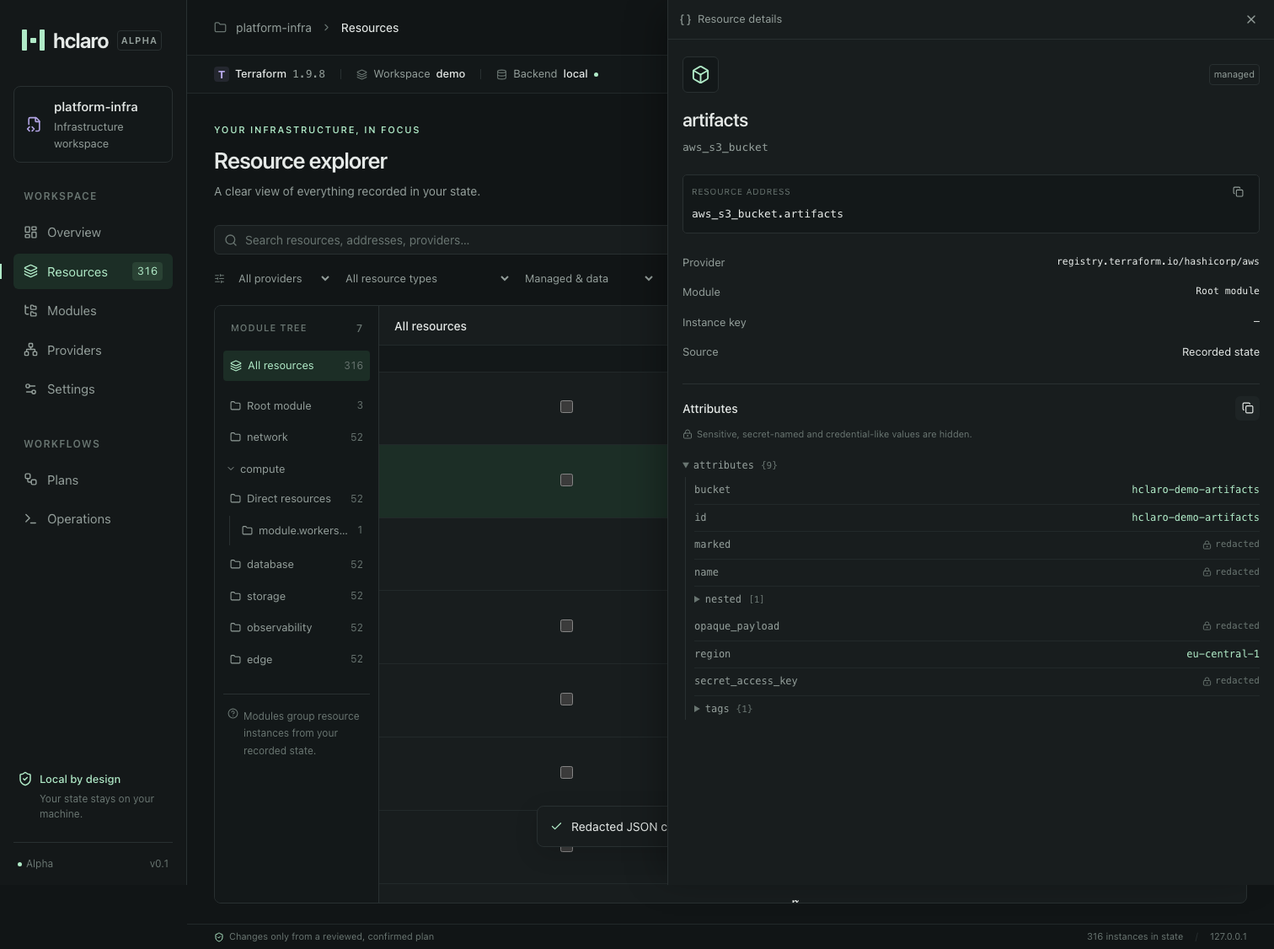
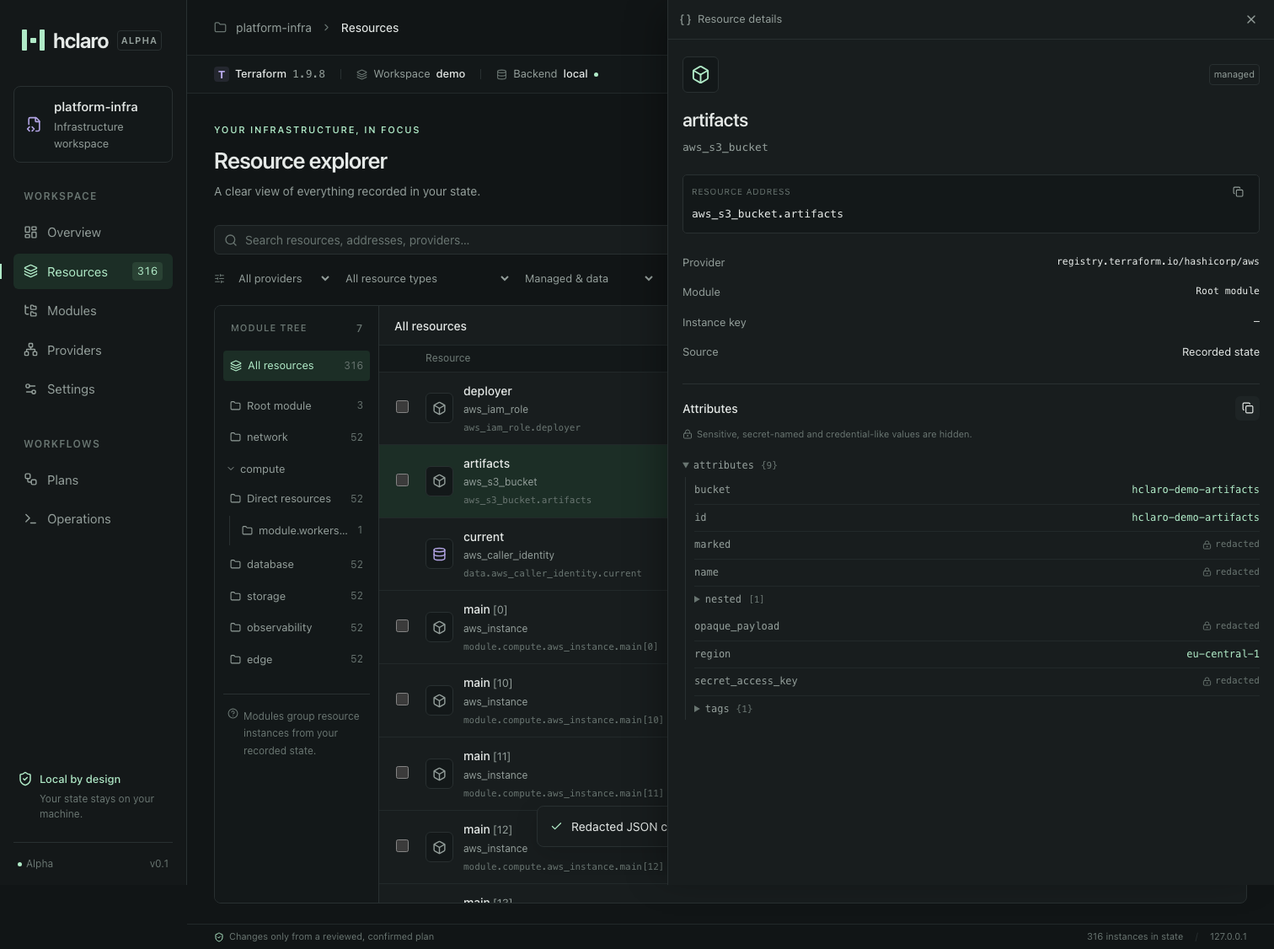
Keep the replacement checkbox column narrow in the resource table
The explorer table sized columns by position. The new leading checkbox column
took the auto width and squeezed resource names into the 83px Provider slot.
Columns are now sized relative to the checkbox column, and the browser test
checks the widths.

diff --git a/internal/ui/dist/assets/index-BXq9SpUr.css b/internal/ui/dist/assets/index-BXq9SpUr.css
@@ -1,0 +1,2 @@
+/*! tailwindcss v4.3.4 | MIT License | https://tailwindcss.com */
+@layer properties{@supports (((-webkit-hyphens:none)) and (not (margin-trim:block))) or ((-moz-orient:inline) and (not (color:rgb(from red r g b)))){*,:before,:after,::backdrop{--tw-outline-style:solid;--tw-blur:initial;--tw-brightness:initial;--tw-contrast:initial;--tw-grayscale:initial;--tw-hue-rotate:initial;--tw-invert:initial;--tw-opacity:initial;--tw-saturate:initial;--tw-sepia:initial;--tw-drop-shadow:initial;--tw-drop-shadow-color:initial;--tw-drop-shadow-alpha:100%;--tw-drop-shadow-size:initial}}}@layer theme{:root,:host{--font-sans:-apple-system, BlinkMacSystemFont, "Segoe UI", Roboto, "Helvetica Neue", "Noto Sans", Arial, sans-serif, "Apple Color Emoji", "Segoe UI Emoji", "Segoe UI Symbol", "Noto Color Emoji";--font-mono:ui-monospace, SFMono-Regular, Menlo, Monaco, Consolas, "Liberation Mono", "Courier New", monospace;--default-font-family:var(--font-sans);--default-mono-font-family:var(--font-mono)}}@layer base{*,:after,:before,::backdrop{box-sizing:border-box;border:0 solid;margin:0;padding:0}::file-selector-button{box-sizing:border-box;border:0 solid;margin:0;padding:0}html,:host{-webkit-text-size-adjust:100%;tab-size:4;line-height:1.5;font-family:var(--default-font-family,-apple-system, BlinkMacSystemFont, "Segoe UI", Roboto, "Helvetica Neue", "Noto Sans", Arial, sans-serif, "Apple Color Emoji", "Segoe UI Emoji", "Segoe UI Symbol", "Noto Color Emoji");font-feature-settings:var(--default-font-feature-settings,normal);font-variation-settings:var(--default-font-variation-settings,normal);-webkit-tap-highlight-color:transparent}hr{height:0;color:inherit;border-top-width:1px}abbr:where([title]){-webkit-text-decoration:underline dotted;text-decoration:underline dotted}h1,h2,h3,h4,h5,h6{font-size:inherit;font-weight:inherit}a{color:inherit;-webkit-text-decoration:inherit;-webkit-text-decoration:inherit;-webkit-text-decoration:inherit;-webkit-text-decoration:inherit;text-decoration:inherit}b,strong{font-weight:bolder}code,kbd,samp,pre{font-family:var(--default-mono-font-family,ui-monospace, SFMono-Regular, Menlo, Monaco, Consolas, "Liberation Mono", "Courier New", monospace);font-feature-settings:var(--default-mono-font-feature-settings,normal);font-variation-settings:var(--default-mono-font-variation-settings,normal);font-size:1em}small{font-size:80%}sub,sup{vertical-align:baseline;font-size:75%;line-height:0;position:relative}sub{bottom:-.25em}sup{top:-.5em}table{text-indent:0;border-color:inherit;border-collapse:collapse}:-moz-focusring:where(:not(iframe)){outline:auto}progress{vertical-align:baseline}summary{display:list-item}ol,ul,menu{list-style:none}img,svg,video,canvas,audio,iframe,embed,object{vertical-align:middle;display:block}img,video{max-width:100%;height:auto}button,input,select,optgroup,textarea{font:inherit;font-feature-settings:inherit;font-variation-settings:inherit;letter-spacing:inherit;color:inherit;opacity:1;background-color:#0000;border-radius:0}::file-selector-button{font:inherit;font-feature-settings:inherit;font-variation-settings:inherit;letter-spacing:inherit;color:inherit;opacity:1;background-color:#0000;border-radius:0}:where(select:is([multiple],[size])) optgroup{font-weight:bolder}:where(select:is([multiple],[size])) optgroup option{padding-inline-start:20px}::file-selector-button{margin-inline-end:4px}::placeholder{opacity:1}@supports (not ((-webkit-appearance:-apple-pay-button))) or (contain-intrinsic-size:1px){::placeholder{color:currentColor}@supports (color:color-mix(in lab, red, red)){::placeholder{color:color-mix(in oklab, currentcolor 50%, transparent)}}}textarea{resize:vertical}::-webkit-search-decoration{-webkit-appearance:none}::-webkit-date-and-time-value{min-height:1lh;text-align:inherit}::-webkit-datetime-edit{display:inline-flex}::-webkit-datetime-edit-fields-wrapper{padding:0}::-webkit-datetime-edit{padding-block:0}::-webkit-datetime-edit-year-field{padding-block:0}::-webkit-datetime-edit-month-field{padding-block:0}::-webkit-datetime-edit-day-field{padding-block:0}::-webkit-datetime-edit-hour-field{padding-block:0}::-webkit-datetime-edit-minute-field{padding-block:0}::-webkit-datetime-edit-second-field{padding-block:0}::-webkit-datetime-edit-millisecond-field{padding-block:0}::-webkit-datetime-edit-meridiem-field{padding-block:0}::-webkit-calendar-picker-indicator{line-height:1}:-moz-ui-invalid{box-shadow:none}button,input:where([type=button],[type=reset],[type=submit]){appearance:button}::file-selector-button{appearance:button}::-webkit-inner-spin-button{height:auto}::-webkit-outer-spin-button{height:auto}[hidden]:where(:not([hidden=until-found])){display:none!important}}@layer components;@layer utilities{.visible{visibility:visible}.sr-only{clip-path:inset(50%);white-space:nowrap;border-width:0;width:1px;height:1px;margin:-1px;padding:0;position:absolute;overflow:hidden}.block{display:block}.hidden{display:none}.table{display:table}.resize{resize:both}.outline{outline-style:var(--tw-outline-style);outline-width:1px}.filter{filter:var(--tw-blur, ) var(--tw-brightness, ) var(--tw-contrast, ) var(--tw-grayscale, ) var(--tw-hue-rotate, ) var(--tw-invert, ) var(--tw-saturate, ) var(--tw-sepia, ) var(--tw-drop-shadow, )}}:root{--lightningcss-light: ;--lightningcss-dark:initial;color-scheme:dark;--bg:#111516;--sidebar:#141819;--surface:#181d1e;--surface-hover:#1e2425;--surface-selected:#1c2e26;--inset:#131819;--border:#293031;--border-soft:#22292a;--text:#e5e9e7;--muted:#939e9a;--subtle:#697571;--accent:#b0eac7;--accent-dim:#2a4234;--accent-text:#b0eac7;--purple:#b3a5e5;--shadow:0 8px 28px #0002;background:var(--bg);color:var(--text);font-synthesis:none;text-rendering:optimizelegibility;-webkit-font-smoothing:antialiased;font-family:Inter,-apple-system,BlinkMacSystemFont,Segoe UI,sans-serif;font-size:15px}:root[data-theme=light]{--lightningcss-light:initial;--lightningcss-dark: ;color-scheme:light;--bg:#f8faf8;--sidebar:#f0f3f1;--surface:#fff;--surface-hover:#f2f6f3;--surface-selected:#e7f3eb;--inset:#f5f8f6;--border:#dce3de;--border-soft:#e8ede9;--text:#202c26;--muted:#617269;--subtle:#7c8b82;--accent:#87cfa4;--accent-dim:#d9efdf;--accent-text:#28683e;--purple:#7964b2;--shadow:0 8px 28px #233d2810}*{box-sizing:border-box}body{min-width:700px;margin:0}button,input,select{font:inherit}button,select{cursor:pointer}button{color:inherit}button:disabled{cursor:not-allowed;opacity:.4}a{color:inherit;text-decoration:none}button,input,select,summary{outline:none}button:focus-visible,a:focus-visible,input:focus-visible,select:focus-visible,summary:focus-visible{outline:2px solid var(--accent-text);outline-offset:3px}button{transition:background .13s,border-color .13s}svg{flex-shrink:0}h1,h2,h3,p{margin:0}button{background:0 0;border:0}select{color:var(--muted);border:1px solid var(--border);background:var(--surface);border-radius:6px;max-width:210px;padding:7px 27px 7px 10px}code,.mono{font-family:SFMono-Regular,Consolas,Liberation Mono,monospace;font-size:.88em}.muted{color:var(--muted)}.app{min-height:100vh;display:flex}.sidebar{border-right:1px solid var(--border);background:var(--sidebar);flex-direction:column;flex-shrink:0;width:222px;padding:29px 16px 0;display:flex;position:fixed;inset:0 auto 0 0}.brand{letter-spacing:-1px;align-items:center;gap:10px;padding:0 10px;font-size:25px;font-weight:650;display:flex}.brand>span:last-child{align-items:center;gap:10px;display:flex}.brand-mark{align-items:center;gap:4px;width:27px;height:28px;display:flex;position:relative}.brand-mark span{background:var(--accent);border-radius:1px;width:6px;height:25px}.brand-mark span:nth-child(2){width:7px;height:6px}.alpha{letter-spacing:.9px;color:var(--muted);border:1px solid var(--border);border-radius:4px;padding:3px 4px;font-size:11px}.project-tile{border:1px solid var(--border);background:var(--inset);border-radius:8px;align-items:center;gap:10px;min-width:0;margin:35px 0 31px;padding:12px 9px;display:flex}.project-tile>div{min-width:0}.project-tile strong{text-overflow:ellipsis;white-space:nowrap;max-width:137px;font-size:15px;font-weight:550;display:block;overflow:hidden}.project-tile div>span{color:var(--muted);margin-top:4px;font-size:13px;display:block}.project-icon{width:28px;height:31px;color:var(--purple);flex-shrink:0;place-items:center;display:grid}.nav-label{letter-spacing:1.2px;color:var(--subtle);margin:0 12px 12px;font-size:12px;font-weight:600}.nav-item{width:100%;color:var(--muted);text-align:left;border-radius:6px;align-items:center;gap:11px;margin-bottom:4px;padding:10px 12px;font-size:15px;display:flex;position:relative}.nav-item:hover:not(:disabled){background:var(--surface-hover);color:var(--text)}.nav-item.active{background:var(--surface-selected);color:var(--accent-text)}.nav-item.active:before{content:"";background:var(--accent);width:2px;height:18px;position:absolute;left:-16px}.nav-count{background:var(--accent-dim);font-variant-numeric:tabular-nums;border-radius:4px;margin-left:auto;padding:1px 6px;font-size:13px}.future-label{margin-top:31px}.soon{letter-spacing:.6px;border:1px solid var(--border);border-radius:4px;margin-left:auto;padding:3px 5px;font-size:10px}.nav-item.unavailable{opacity:.55}.sidebar-bottom{margin-top:auto;padding-top:50px}.local-note{color:var(--accent-text);align-items:flex-start;gap:8px;padding:12px 5px 24px;display:flex}.local-note strong{font-size:13px;font-weight:500;display:block}.local-note span{color:var(--subtle);margin-top:5px;font-size:12px;display:block}.sidebar-foot{color:var(--subtle);border-top:1px solid var(--border);justify-content:space-between;padding:16px 5px;font-size:12px;display:flex}.sidebar-foot>span:first-child{align-items:center;gap:5px;display:flex}.dot{background:var(--accent);border-radius:50%;flex-shrink:0;width:5px;height:5px;display:inline-block}.dot-muted{background:var(--subtle)}.workspace-shell{flex-direction:column;width:calc(100% - 222px);min-width:0;margin-left:222px;display:flex}.topbar{border-bottom:1px solid var(--border-soft);justify-content:space-between;align-items:center;height:66px;padding:0 32px;display:flex}.breadcrumbs{color:var(--muted);align-items:center;gap:11px;font-size:14px;display:flex}.breadcrumbs>svg{color:var(--subtle)}.breadcrumbs strong{color:var(--text);font-weight:450}.topbar-actions{align-items:center;gap:17px;display:flex}.session-label{color:var(--subtle);align-items:center;gap:5px;font-size:13px;display:flex}.button{white-space:nowrap;border:1px solid #0000;border-radius:6px;flex-shrink:0;justify-content:center;align-items:center;gap:7px;padding:8px 12px;font-size:14px;font-weight:500;line-height:1.3;display:inline-flex}.button-default{background:var(--accent);color:#183323}.button-ghost{color:var(--muted);background:0 0}.button-ghost:hover:not(:disabled){background:var(--surface-hover);color:var(--text)}.button-outline{background:var(--surface);border-color:var(--border);color:var(--muted)}.button-outline:hover:not(:disabled){background:var(--surface-hover);color:var(--text);border-color:var(--subtle)}.button-icon{width:29px;height:29px;padding:0}.button-small{padding:5px 8px;font-size:13px}.context-bar{border-bottom:1px solid var(--border-soft);height:45px;color:var(--muted);background:var(--inset);align-items:center;gap:18px;padding:0 32px;font-size:13px;display:flex}.context-item{white-space:nowrap;align-items:center;gap:7px;display:flex}.context-item strong{color:var(--text);font-weight:500}.context-item>svg{color:var(--subtle)}.context-item .mono{font-size:13px}.engine-glyph{color:var(--purple);background:var(--purple)}@supports (color:color-mix(in lab, red, red)){.engine-glyph{background:color-mix(in srgb,var(--purple),transparent 89%)}}.engine-glyph{text-align:center;border-radius:4px;width:18px;height:18px;font-size:13px;font-weight:750;line-height:18px}.context-divider{background:var(--border);width:1px;height:12px}.context-spacer{flex:1}.snapshot-time{color:var(--subtle);white-space:nowrap;font-size:12px}.main-content{flex:1;min-width:0;padding:35px 32px 24px}.page-heading{justify-content:space-between;align-items:flex-start;margin-bottom:30px;display:flex}.eyebrow{letter-spacing:1.7px;color:var(--accent-text);margin-bottom:11px;font-size:11px;font-weight:550}h1{letter-spacing:-.9px;font-size:27px;font-weight:580;line-height:1.2}.page-heading p{color:var(--muted);margin-top:10px;font-size:14px}.read-only-badge{border:1px solid var(--border);color:var(--muted);border-radius:5px;align-items:center;gap:6px;margin-top:24px;padding:5px 8px;font-size:12px;display:flex}.read-only-badge svg{color:var(--accent-text)}.explorer-toolbar{align-items:center;gap:8px;display:flex}.search-field{border:1px solid var(--border);background:var(--surface);min-width:0;height:35px;color:var(--subtle);border-radius:6px;flex:1;align-items:center;gap:9px;padding:0 11px;display:flex}.search-field:focus-within{border-color:var(--accent-text);box-shadow:0 0 0 2px var(--accent)}@supports (color:color-mix(in lab, red, red)){.search-field:focus-within{box-shadow:0 0 0 2px color-mix(in srgb,var(--accent),transparent 93%)}}.search-field input{color:var(--text);background:0 0;border:0;outline:0;width:100%;min-width:0;height:100%;font-size:14px}.search-field input:focus-visible{outline:0}.search-field input::placeholder{color:var(--subtle)}kbd{border:1px solid var(--border);color:var(--subtle);border-radius:3px;align-items:center;gap:2px;padding:2px 4px;font-family:inherit;font-size:12px;display:flex}.clear-search{color:var(--muted);padding:0;display:flex}.filter-row{color:var(--subtle);align-items:center;gap:8px;margin:13px 0 18px;display:flex}.filter-row select{background:0 0;border:0;max-width:205px;padding:5px 19px 5px 4px;font-size:13px}.filter-row select:hover{color:var(--text)}.filter-count{white-space:nowrap;font-variant-numeric:tabular-nums;margin-left:auto;font-size:13px}.explorer{border:1px solid var(--border);background:var(--surface);border-radius:8px;min-height:540px;max-height:calc(100vh - 340px);display:flex;overflow:hidden}.module-panel{background:var(--inset);border-right:1px solid var(--border);flex-shrink:0;width:195px;padding:18px 10px;overflow:auto}.panel-label{color:var(--subtle);letter-spacing:1px;justify-content:space-between;margin-bottom:17px;padding:0 9px;font-size:11px;font-weight:550;display:flex}.panel-label>span{letter-spacing:0;font-size:12px}.all-resources,.tree-resource{text-align:left;width:100%;color:var(--muted);border-radius:4px;align-items:center;gap:7px;min-width:0;padding:8px;font-size:13px;display:flex}.all-resources{margin-bottom:12px}.all-resources:hover,.tree-resource:hover{background:var(--surface-hover)}.chosen{background:var(--surface-selected);color:var(--accent-text)}.tree-count{color:var(--subtle);font-variant-numeric:tabular-nums;margin-left:auto;font-size:12px}.module-tree,.module-tree ul{margin:0;padding:0;list-style:none}.module-tree ul{border-left:1px solid var(--border);margin:2px 0 5px 7px;padding-left:6px}.module-tree>li{margin:2px 0}.module-tree summary{cursor:pointer;color:var(--muted);align-items:center;gap:5px;padding:8px 3px;font-size:13px;list-style:none;display:flex}.module-tree summary::-webkit-details-marker{display:none}.module-tree details:not([open])>summary>svg{transform:rotate(-90deg)}.tree-resource>span:not(.tree-count),.module-tree summary>span{text-overflow:ellipsis;white-space:nowrap;overflow:hidden}.tree-hint{border-top:1px solid var(--border);color:var(--subtle);gap:6px;margin-top:23px;padding:16px 5px 0;font-size:12px;line-height:1.7;display:flex}.resource-list{scrollbar-width:thin;flex:1;min-width:0;position:relative;overflow:auto}.list-caption{border-bottom:1px solid var(--border-soft);background:var(--surface);justify-content:space-between;align-items:center;gap:15px;height:47px;padding:0 18px;font-size:14px;font-weight:500;display:flex}.list-caption span:first-child{white-space:nowrap;text-overflow:ellipsis;overflow:hidden}.list-caption span:last-child{color:var(--subtle);letter-spacing:1px;white-space:nowrap;font-size:10px}.resources-table{border-collapse:collapse;table-layout:fixed;text-align:left;width:100%}.resources-table th{background:var(--inset);z-index:1;border-bottom:1px solid var(--border-soft);height:31px;color:var(--subtle);padding:0 15px;font-size:12px;font-weight:450;position:sticky;top:0}.resources-table th:first-child{width:auto}.resources-table th:nth-child(2){width:83px}.resources-table th:nth-child(3){width:87px}.resources-table td{border-bottom:1px solid var(--border-soft);vertical-align:middle;padding:11px 15px}.resources-table tr:hover td{background:var(--surface-hover)}.resources-table tr.selected td{background:var(--surface-selected)}.resource-button{text-align:left;align-items:center;gap:12px;width:100%;min-width:0;padding:0;display:flex}.resource-icon{border:1px solid var(--border);width:33px;height:36px;color:var(--muted);background:var(--inset);border-radius:6px;flex-shrink:0;justify-content:center;align-items:center;display:flex}.resource-icon.data-icon{color:var(--purple)}.resource-text{flex-direction:column;gap:3px;min-width:0;display:flex}.resource-text strong{white-space:nowrap;text-overflow:ellipsis;font-size:14px;font-weight:500;overflow:hidden}.instance-key{color:var(--muted);margin-left:3px;font-size:13px;font-weight:400}.resource-type{color:var(--muted);font-size:12px}.resource-address{color:var(--subtle);white-space:nowrap;text-overflow:ellipsis;margin-top:2px;font-size:11px;overflow:hidden}.provider-label{color:var(--muted);align-items:center;gap:5px;font-size:13px;display:flex}.provider-dot{background:var(--purple);border-radius:2px;width:5px;height:5px}.mode-badge{border:1px solid var(--border);color:var(--muted);white-space:nowrap;border-radius:4px;padding:3px 5px;font-size:11px}.mode-badge.data{color:var(--purple);border-color:var(--purple)}@supports (color:color-mix(in lab, red, red)){.mode-badge.data{border-color:color-mix(in srgb,var(--purple),transparent 70%)}}.density-compact .resources-table td{padding-top:7px;padding-bottom:7px}.density-compact .resource-address{display:none}.pagination{color:var(--subtle);justify-content:space-between;align-items:center;padding:13px 16px;font-size:12px;display:flex}.pagination>div{align-items:center;gap:8px;display:flex}.empty-state{text-align:center;min-height:300px;color:var(--muted);flex-direction:column;justify-content:center;align-items:center;gap:12px;padding:40px 25px;display:flex}.empty-state h2{color:var(--text);font-size:18px;font-weight:500}.empty-state p{max-width:470px;font-size:15px;line-height:1.9}.empty-state>svg{color:var(--subtle);margin-bottom:5px}.error-state{border:1px dashed var(--border);border-radius:8px;margin-top:20px}.safe-note{color:var(--subtle);align-items:center;gap:6px;margin-top:10px;font-size:13px;display:flex}.inspector{background:var(--surface);border-left:1px solid var(--border);z-index:40;max-width:calc(100vw - 24px);animation:.18s drawer-in;position:fixed;top:0;bottom:0;right:0;overflow:auto;box-shadow:-18px 0 40px -12px #00000059}@keyframes drawer-in{0%{opacity:.4;transform:translate(32px)}}.drawer-resize{cursor:col-resize;touch-action:none;z-index:1;width:8px;margin-left:-4px;position:fixed;top:0;bottom:0}.drawer-resize:hover,.drawer-resize:focus-visible{background:var(--accent-text)}@supports (color:color-mix(in lab, red, red)){.drawer-resize:hover,.drawer-resize:focus-visible{background:color-mix(in srgb, var(--accent-text), transparent 70%)}}.drawer-resize:hover,.drawer-resize:focus-visible{outline:none}.inspector-header{background:var(--surface);z-index:1;border-bottom:1px solid var(--border);justify-content:space-between;align-items:center;height:47px;padding:9px 13px;display:flex;position:sticky;top:0}.inspector-header>span{color:var(--muted);align-items:center;gap:7px;font-size:13px;display:flex}.inspector-body{padding:20px 17px}.inspector-title{justify-content:space-between;align-items:center;margin-bottom:16px;display:flex}.inspector-title .resource-icon{width:43px;height:43px;color:var(--accent-text)}.inspector-body h2{letter-spacing:-.5px;overflow-wrap:anywhere;font-size:22px;font-weight:550}.inspector-type{color:var(--muted);overflow-wrap:anywhere;margin-top:6px;font-size:13px}.address-box{background:var(--inset);border:1px solid var(--border);border-radius:5px;margin:22px 0 17px;padding:5px 10px 11px}.label-row{letter-spacing:.8px;color:var(--subtle);justify-content:space-between;align-items:center;font-size:10px;display:flex}.address-box>code{overflow-wrap:anywhere;color:var(--text);font-size:13px;line-height:1.8;display:block}.metadata{margin:0;padding:0}.metadata>div{justify-content:space-between;gap:15px;padding:8px 0;font-size:13px;display:flex}.metadata dt{color:var(--muted);flex-shrink:0}.metadata dd{text-align:right;overflow-wrap:anywhere;min-width:0;color:var(--text);margin:0}.attributes-header{border-top:1px solid var(--border);justify-content:space-between;align-items:center;margin-top:19px;padding-top:14px;display:flex}.attributes-header h3{font-size:14px;font-weight:500}.redaction-note{color:var(--subtle);align-items:center;gap:5px;margin:7px 0 17px;font-size:11px;line-height:1.6;display:flex}.json-viewer{overflow-wrap:anywhere;font-family:SFMono-Regular,Consolas,monospace;font-size:12px;line-height:1.8}.json-group{margin:3px 0}.json-group summary{cursor:pointer;color:var(--subtle);padding:2px 0}.json-key{color:var(--muted)}.json-shape{color:var(--subtle);margin-left:8px;font-size:11px}.json-children{border-left:1px solid var(--border);margin-left:3px;padding-left:10px}.json-leaf{border-bottom:1px solid var(--border-soft);justify-content:space-between;align-items:flex-start;gap:12px;padding:5px 0;display:flex}.json-leaf>.json-key{flex-shrink:0;max-width:60%}.json-string{color:var(--accent-text);text-align:right;min-width:0}.json-value{color:var(--purple)}.redacted{color:var(--subtle);flex-shrink:0;align-items:center;gap:4px;font-size:11px;display:inline-flex}.statusbar{border-top:1px solid var(--border-soft);height:30px;color:var(--subtle);justify-content:space-between;align-items:center;gap:20px;margin-top:auto;padding:0 32px;font-size:11px;display:flex}.statusbar>span{white-space:nowrap;align-items:center;gap:6px;display:flex}.statusbar>span:first-child>svg{color:var(--accent-text)}.footer-divider{color:var(--border);margin:0 8px}.toast{border:1px solid var(--border);box-shadow:var(--shadow);background:var(--surface);z-index:20;border-radius:8px;align-items:center;gap:10px;padding:13px 15px;font-size:14px;display:flex;position:fixed;bottom:45px;left:50%;transform:translate(-50%)}.toast>svg{color:var(--accent-text)}.toast>button{color:var(--muted);padding:4px;display:flex}.stats-grid{grid-template-columns:repeat(4,minmax(0,1fr));gap:14px;display:grid}.stat{border:1px solid var(--border);background:var(--surface);border-radius:8px;padding:20px}.stat>span{color:var(--muted);justify-content:space-between;align-items:center;gap:8px;font-size:13px;display:flex}.stat>span>svg{color:var(--subtle)}.stat>strong{letter-spacing:-1.2px;font-variant-numeric:tabular-nums;margin:19px 0 8px;font-size:32px;font-weight:500;display:block}.stat>small{color:var(--subtle);font-size:12px}.overview-columns{grid-template-columns:1.3fr 1fr;gap:18px;margin-top:20px;display:grid}.surface{border:1px solid var(--border);background:var(--surface);border-radius:8px;padding:23px}.surface-heading{justify-content:space-between;align-items:center;margin-bottom:22px;display:flex}.surface-heading h2{font-size:15px;font-weight:500}.surface-heading p{color:var(--muted);margin-top:6px;font-size:13px}.surface-heading>svg{color:var(--subtle)}.distribution-row{text-align:left;border-radius:3px;width:100%;padding:9px 0 12px;display:block}.distribution-row:hover{background:var(--surface-hover)}.distribution-row>span{color:var(--muted);justify-content:space-between;align-items:center;font-size:14px;display:flex}.distribution-row strong{color:var(--text);font-size:13px;font-weight:500}.distribution-row progress{appearance:none;background:var(--inset);border:0;border-radius:3px;width:100%;height:5px;margin-top:9px;display:block;overflow:hidden}.distribution-row progress::-webkit-progress-bar{background:var(--inset)}.distribution-row progress::-webkit-progress-value{background:var(--accent);border-radius:3px}.distribution-row progress::-moz-progress-bar{background:var(--accent);border-radius:3px}.workspace-info .metadata>div{border-bottom:1px solid var(--border-soft);padding:11px 0}.workspace-info>.button{width:100%;margin-top:23px}.workspace-warnings{margin-top:20px}.info-note{color:var(--muted);align-items:flex-start;gap:9px;padding:12px 0;font-size:13px;line-height:1.8;display:flex}.info-note>svg{color:var(--subtle);margin-top:2px}.directory-grid{grid-template-columns:repeat(3,minmax(0,1fr));gap:16px;display:grid}.directory-card{border:1px solid var(--border);background:var(--surface);text-align:left;border-radius:8px;min-width:0;padding:21px}.directory-card:hover,.provider-card:hover{border-color:var(--subtle);background:var(--surface-hover)}.directory-icon{width:38px;height:38px;color:var(--accent-text);background:var(--accent-dim);border-radius:8px;justify-content:center;align-items:center;margin-bottom:20px;display:flex}.directory-card h2{overflow-wrap:anywhere;font-size:15px;font-weight:500}.directory-card p{color:var(--subtle);overflow-wrap:anywhere;margin-top:9px;font-size:12px}.directory-card>div{color:var(--muted);justify-content:space-between;align-items:center;margin-top:26px;font-size:13px;display:flex}.provider-card{background:var(--surface);border:1px solid var(--border);text-align:left;border-radius:8px;align-items:center;gap:20px;width:100%;margin-bottom:12px;padding:24px;display:flex}.provider-card h2{font-size:17px;font-weight:500}.provider-card p{color:var(--muted);overflow-wrap:anywhere;margin-top:7px;font-size:13px}.provider-card>span:nth-last-child(2){color:var(--muted);white-space:nowrap;margin-left:auto;font-size:13px}.provider-card>svg{color:var(--subtle)}.provider-icon{color:var(--purple);background:var(--inset);border-radius:9px;padding:16px;display:flex}.settings-panel{background:var(--surface);border:1px solid var(--border);border-radius:9px;max-width:850px}.setting-row{border-bottom:1px solid var(--border-soft);justify-content:space-between;align-items:center;gap:20px;padding:28px;display:flex}.setting-row h2,.settings-security h2{font-size:15px;font-weight:500}.setting-row p{color:var(--muted);margin-top:7px;font-size:14px}.segmented{border:1px solid var(--border);background:var(--inset);border-radius:7px;align-items:center;gap:3px;padding:3px;display:flex}.segmented>button{color:var(--muted);text-transform:capitalize;border-radius:4px;align-items:center;gap:6px;padding:8px 11px;font-size:13px;display:flex}.segmented>button[aria-pressed=true]{background:var(--surface-hover);color:var(--text);box-shadow:0 1px 4px #0001}.settings-security{background:var(--inset);border-radius:0 0 9px 9px;gap:15px;padding:28px;display:flex}.settings-security>svg{color:var(--accent-text)}.settings-security p{color:var(--muted);margin-top:9px;font-size:14px;line-height:1.9}.settings-security code{color:var(--text);font-size:13px}.empty-description{color:var(--muted);padding:25px 0;font-size:14px}.spin{animation:1.2s linear infinite spin}@keyframes spin{to{transform:rotate(360deg)}}@keyframes reveal{0%{opacity:.3;transform:translate(6px)}to{opacity:1;transform:translate(0)}}@media (width>=1700px){.explorer{max-height:calc(100vh - 340px)}.module-panel{width:220px}.main-content{padding-left:42px;padding-right:42px}}@media (width<=1350px){.main-content,.topbar,.context-bar,.statusbar{padding-left:24px;padding-right:24px}.context-bar{gap:12px}.sidebar{width:202px;padding-left:12px;padding-right:12px}.workspace-shell{width:calc(100% - 202px);margin-left:202px}.module-panel{width:175px}.nav-item.active:before{left:-12px}.directory-grid{grid-template-columns:repeat(2,minmax(0,1fr))}}@media (width<=1100px){.session-label,.snapshot-time{display:none}.context-bar{gap:10px;font-size:12px}.context-item{gap:5px}.sidebar{width:178px}.workspace-shell{width:calc(100% - 178px);margin-left:178px}.brand{padding:0 5px;font-size:24px}.brand>span:last-child{gap:6px}.alpha{font-size:10px}.project-tile{gap:5px;padding:9px 4px}.project-tile strong{max-width:112px}.project-tile div>span{font-size:11px}.stats-grid{gap:8px}.stat{padding:15px}.stat>span{font-size:12px}.stat>strong{font-size:28px}.overview-columns{grid-template-columns:1fr}.module-panel{width:157px;padding-left:5px;padding-right:5px}.inspector-title .resource-icon{display:flex}.resources-table th,.resources-table td{padding-left:11px;padding-right:11px}.filter-row select{max-width:165px}.page-heading p{font-size:13px}.read-only-badge{font-size:11px}.local-note{gap:4px;padding-left:0}.local-note span{font-size:11px}.filter-count{font-size:12px}}@media (width<=900px){.sidebar{align-items:center;width:65px;padding:24px 9px 0}.brand{padding:0}.brand>span:last-child,.project-tile,.nav-label,.nav-item>span,.sidebar-bottom,.unavailable{display:none}.brand-mark{margin-bottom:45px}.nav-item{padding:13px 14px}.nav-item.active:before{left:-9px}.workspace-shell{width:calc(100% - 65px);margin-left:65px}.sidebar nav{width:100%}.sidebar .nav-item svg{width:18px;height:18px}.topbar{height:58px}.main-content{padding:28px 20px 20px}.module-panel{width:160px}.context-bar{height:42px}.filter-row select{max-width:155px}.page-heading{margin-bottom:25px}.hide-small{display:none}.explorer{max-height:calc(100vh - 320px)}.stats-grid{grid-template-columns:repeat(2,minmax(0,1fr))}.setting-row{padding:21px}.segmented>button{padding:7px}.breadcrumbs{font-size:13px}.context-item .mono{font-size:12px}.statusbar{padding-left:20px;padding-right:20px}}@media (prefers-reduced-motion:reduce){*,:before,:after{scroll-behavior:auto!important;transition:none!important;animation:none!important}}:root[data-theme=dark] .theme-to-dark,:root[data-theme=light] .theme-to-light{display:none}.skip-link{z-index:30;background:var(--accent);color:#183323;border-radius:6px;padding:12px 16px;position:fixed;top:-60px;left:20px}.skip-link:focus{top:12px}:root{--create:#8fdcab;--update:#e3c27a;--destroy:#f09a8f;--warn:#e7b86a}:root[data-theme=light]{--create:#22783f;--update:#8a5c00;--destroy:#b4372a;--warn:#8f5a00}.sr-only{clip:rect(0 0 0 0);white-space:nowrap;width:1px;height:1px;position:absolute;overflow:hidden}.plans,.operations,.plan-review{flex-direction:column;gap:14px;display:flex}.plans-toolbar{align-items:center;gap:12px;display:flex}.toolbar-note{color:var(--muted);align-items:center;gap:6px;margin-left:auto;font-size:13px;display:flex}.history-select{color:var(--muted);align-items:center;gap:6px;display:flex}.history-select select{max-width:300px}.context-running,.running-dot{color:var(--accent-text);align-items:center;gap:6px;font-size:13px;display:inline-flex}.context-running{border:1px solid var(--accent-dim);border-radius:999px;margin-right:10px;padding:3px 9px}.action-badge{white-space:nowrap;border:1px solid}@supports (color:color-mix(in lab, red, red)){.action-badge{border:1px solid color-mix(in srgb, currentColor, transparent 65%)}}.action-badge{border-radius:4px;align-items:center;gap:4px;padding:3px 6px;font-size:13px;font-weight:600;display:inline-flex}.tone-create{color:var(--create)}.tone-update{color:var(--update)}.tone-destroy{color:var(--destroy)}.tone-warn{color:var(--warn)}.tone-neutral{color:var(--purple)}.tone-muted{color:var(--subtle)}.summary-grid{grid-template-columns:repeat(auto-fill,minmax(118px,1fr));gap:8px;display:grid}.summary-card{border:1px solid var(--border);background:var(--surface);text-align:left;border-radius:8px;flex-direction:column;gap:6px;padding:11px 13px;display:flex}.summary-card>span{align-items:center;gap:6px;font-size:13px;font-weight:600;display:flex}.summary-card strong{color:var(--text);font-size:24px;font-weight:500}.summary-card:hover:not(:disabled){background:var(--surface-hover)}.summary-card.chosen{background:var(--surface-selected);border-color:currentColor}.summary-card:disabled{opacity:.45}.plan-headline,.info-line{color:var(--muted);font-size:14px;line-height:1.6}.plan-meta{border:1px solid var(--border);background:var(--surface);border-radius:8px;flex-wrap:wrap;gap:8px 28px;padding:12px 16px;display:flex}.plan-meta>div{flex-direction:column;gap:4px;font-size:13px;display:flex}.plan-meta strong{font-size:14px;font-weight:500}.hash{color:var(--text);align-items:center;gap:5px;padding:0;font-family:SFMono-Regular,Consolas,Liberation Mono,monospace;font-size:14px;display:inline-flex}.apply-banner,.plan-warning{border-radius:8px;align-items:flex-start;gap:9px;padding:10px 14px;font-size:14px;line-height:1.6;display:flex}.apply-banner{background:var(--inset);border:1px solid var(--border);color:var(--muted)}.apply-banner strong{color:var(--text)}.plan-warning{color:var(--warn);border:1px solid var(--warn)}@supports (color:color-mix(in lab, red, red)){.plan-warning{border:1px solid color-mix(in srgb, var(--warn), transparent 70%)}}.plan-warning{background:var(--warn)}@supports (color:color-mix(in lab, red, red)){.plan-warning{background:color-mix(in srgb, var(--warn), transparent 93%)}}.plan-tabs{align-self:flex-start}.plan-tabs>button{text-transform:none}.plan-tabs>button[aria-selected=true]{background:var(--surface-hover);color:var(--text)}.plan-tabs>button span{color:var(--subtle)}.search-field.compact{flex:0 340px;padding:6px 10px}.check{color:var(--muted);align-items:center;gap:6px;font-size:14px;display:inline-flex}.changes-table th:first-child{width:120px}.changes-table th:nth-child(2){width:auto}.changes-table th:nth-child(3){width:230px}.resource-text strong.change-address{white-space:normal;word-break:break-all}.operations-table th:first-child{width:auto}.operations-table th:nth-child(2){width:130px}.operations-table th:nth-child(3){width:110px}.operations-table th:nth-child(4){width:90px}.operations-table th:nth-child(5){width:210px}.change-why{color:var(--muted);font-size:13px}.flag{border:1px solid var(--border);color:var(--muted);white-space:nowrap;border-radius:4px;align-items:center;gap:3px;margin-left:6px;padding:1px 5px;font-size:12px;display:inline-flex}.flag.destroy{color:var(--destroy);border-color:var(--destroy)}@supports (color:color-mix(in lab, red, red)){.flag.destroy{border-color:color-mix(in srgb, var(--destroy), transparent 60%)}}.plan-explorer{min-height:420px}.order-note{color:var(--destroy);align-items:center;gap:6px;margin:10px 0;font-size:14px;display:flex}.diff-table{border-collapse:collapse;width:100%;font-size:13px}.diff-table th,.diff-table td{border-bottom:1px solid var(--border-soft);text-align:left;vertical-align:top;word-break:break-all;padding:7px 6px}.diff-table thead th{color:var(--subtle);font-weight:500}.diff-table tbody th{font-weight:400}.diff-added td:last-child{box-shadow:inset 2px 0 var(--create)}.diff-removed td:nth-child(2){box-shadow:inset 2px 0 var(--destroy)}.diff-changed td:last-child,.diff-unknown td:last-child{box-shadow:inset 2px 0 var(--update)}.unknown-value{color:var(--update);font-style:italic}.json-inline{color:var(--muted)}.full-values{margin-top:14px}.full-values summary{color:var(--muted);font-size:14px}.outputs{padding:16px}.operation-log,.operation-failed{border:1px solid var(--border);background:var(--surface);border-radius:8px;overflow:hidden}.operation-log header{border-bottom:1px solid var(--border);align-items:center;gap:12px;padding:10px 14px;font-size:14px;display:flex}.operation-title{align-items:center;gap:7px;min-width:0;display:flex}.operation-title strong{text-overflow:ellipsis;white-space:nowrap;font-family:SFMono-Regular,Consolas,Liberation Mono,monospace;font-weight:500;overflow:hidden}.operation-log header .button{margin-left:auto}.status-pill{border:1px solid var(--border);text-transform:capitalize;white-space:nowrap;border-radius:999px;align-items:center;gap:5px;padding:2px 8px;font-size:13px;display:inline-flex}.status-running{color:var(--accent-text)}.status-succeeded{color:var(--create)}.status-failed{color:var(--destroy)}.status-cancelled{color:var(--warn)}.log-lines{background:var(--inset);max-height:260px;margin:0;padding:10px 14px;font-family:SFMono-Regular,Consolas,Liberation Mono,monospace;font-size:13px;line-height:1.7;list-style:none;overflow:auto}.log-lines li{white-space:pre-wrap;word-break:break-word;gap:12px;display:flex}.log-lines time{color:var(--subtle);flex-shrink:0}.log-warn{color:var(--warn)}.log-error{color:var(--destroy)}.log-note{color:var(--muted);padding:8px 14px;font-size:13px}.operation-failed{border-color:var(--destroy)}@supports (color:color-mix(in lab, red, red)){.operation-failed{border-color:color-mix(in srgb, var(--destroy), transparent 60%)}}.operation-failed{padding:16px 18px}.operation-failed h2{color:var(--destroy);align-items:center;gap:8px;margin-bottom:8px;font-size:16px;display:flex}.operation-failed p{font-size:14px;line-height:1.6}.diagnostics{flex-direction:column;gap:8px;margin:12px 0 0;padding:0;list-style:none;display:flex}.diagnostics li{background:var(--inset);border-radius:6px;flex-direction:column;gap:5px;padding:9px 11px;font-size:14px;display:flex}.diagnostics pre{white-space:pre-wrap;color:var(--muted);margin:0;font-size:13px}.diag-error strong{color:var(--destroy)}.diag-warning strong{color:var(--warn)}.operations-table td{vertical-align:middle;font-size:14px}.dialog-backdrop{z-index:30;background:#0008;justify-content:center;align-items:center;padding:20px;display:flex;position:fixed;inset:0}.dialog{border:1px solid var(--border);background:var(--surface);box-shadow:var(--shadow);border-radius:10px;flex-direction:column;gap:14px;width:min(560px,100%);padding:20px 22px;display:flex}.dialog-header{justify-content:space-between;align-items:center;display:flex}.dialog-header h2{font-size:18px}.dialog p{color:var(--muted);font-size:15px;line-height:1.6}.dialog p strong{color:var(--text)}.preflight-list{flex-direction:column;gap:12px;margin:0;padding:0;list-style:none;display:flex}.preflight-list li{color:var(--muted);gap:10px;font-size:14px;line-height:1.6;display:flex}.preflight-list li>svg{color:var(--accent-text);margin-top:2px}.preflight-list strong{color:var(--text)}.var-files{border:1px solid var(--border);border-radius:7px;flex-direction:column;gap:7px;margin:0;padding:10px 12px;font-size:14px;display:flex}.var-files legend{padding:0 4px}.var-files label{align-items:center;gap:8px;display:flex}.dialog-error{color:var(--destroy)!important}.dialog-actions{justify-content:flex-end;gap:8px;display:flex}.select-column{text-align:center;padding-right:0!important}.resources-table th.select-column{width:40px}.resources-table th.select-column+th{width:auto}.resources-table th.select-column+th+th{width:83px}.resources-table th.select-column+th+th+th{width:87px}.select-column input{accent-color:var(--accent);cursor:pointer;width:15px;height:15px}.selection-bar{border-bottom:1px solid var(--border);background:var(--accent)}@supports (color:color-mix(in lab, red, red)){.selection-bar{background:color-mix(in srgb, var(--accent), transparent 92%)}}.selection-bar{color:var(--text);z-index:2;align-items:center;gap:10px;padding:8px 14px;font-size:14px;display:flex;position:sticky;top:0}.selection-bar>span{flex:1}.button-destructive{background:var(--destroy);border-color:var(--destroy);color:var(--surface)}.button-destructive:hover:not(:disabled){background:var(--destroy)}@supports (color:color-mix(in lab, red, red)){.button-destructive:hover:not(:disabled){background:color-mix(in srgb, var(--destroy), #000 12%)}}.apply-banner.apply-ready{border-color:var(--accent)}@supports (color:color-mix(in lab, red, red)){.apply-banner.apply-ready{border-color:color-mix(in srgb, var(--accent), transparent 55%)}}.apply-banner.apply-ready{align-items:center}.apply-banner.apply-ready>div{flex:1}.replace-summary,.operation-applied{border:1px solid var(--border);background:var(--surface);border-radius:8px;flex-direction:column;gap:10px;padding:14px 18px;display:flex}.replace-summary h2,.operation-applied h2{align-items:center;gap:8px;font-size:16px;display:flex}.operation-applied h2{color:var(--create)}.replace-summary ul,.replace-targets ul{flex-direction:column;gap:6px;margin:0;padding:0;list-style:none;display:flex}.replace-summary li,.replace-targets li{overflow-wrap:anywhere;align-items:center;gap:8px;font-size:14px;display:flex}.replace-summary p,.operation-applied p{font-size:14px;line-height:1.6}.replace-targets{border:1px solid var(--border);border-radius:7px;flex-direction:column;gap:8px;max-height:220px;padding:10px 12px;font-size:14px;display:flex;overflow-y:auto}.replace-targets p{font-size:14px!important}.apply-counts{flex-wrap:wrap;gap:8px;display:flex}.apply-count{border:1px solid var(--border);background:var(--inset);border-radius:999px;align-items:center;gap:6px;padding:4px 10px;font-size:14px;display:inline-flex}.command-preview{background:var(--inset);overflow-wrap:anywhere;border-radius:7px;flex-direction:column;gap:6px;padding:10px 12px;font-size:13px;display:flex}.command-preview>span{align-items:center;gap:6px;display:flex}.phrase-field{flex-direction:column;gap:6px;font-size:14px;display:flex}.phrase-field input{border:1px solid var(--border);background:var(--inset);color:var(--text);border-radius:6px;padding:8px 10px;font-family:SFMono-Regular,Consolas,Liberation Mono,monospace;font-size:14px}.phrase-field input:focus-visible{outline:2px solid var(--accent);outline-offset:1px}.dialog p code{white-space:nowrap}@property --tw-outline-style{syntax:"*";inherits:false;initial-value:solid}@property --tw-blur{syntax:"*";inherits:false}@property --tw-brightness{syntax:"*";inherits:false}@property --tw-contrast{syntax:"*";inherits:false}@property --tw-grayscale{syntax:"*";inherits:false}@property --tw-hue-rotate{syntax:"*";inherits:false}@property --tw-invert{syntax:"*";inherits:false}@property --tw-opacity{syntax:"*";inherits:false}@property --tw-saturate{syntax:"*";inherits:false}@property --tw-sepia{syntax:"*";inherits:false}@property --tw-drop-shadow{syntax:"*";inherits:false}@property --tw-drop-shadow-color{syntax:"*";inherits:false}@property --tw-drop-shadow-alpha{syntax:"<percentage>";inherits:false;initial-value:100%}@property --tw-drop-shadow-size{syntax:"*";inherits:false}

diff --git a/internal/ui/dist/index.html b/internal/ui/dist/index.html
@@ -1,4 +1,4 @@
 <!doctype html>
-<html lang="en"><head><meta charset="UTF-8"/><meta name="viewport" content="width=device-width,initial-scale=1.0"/><meta name="color-scheme" content="dark light"/><meta name="description" content="Hclaro — your infrastructure, in focus. A local, read-only workspace for Terraform and OpenTofu."/><link rel="icon" type="image/svg+xml" href="/favicon.svg"/><title>Hclaro · Local infrastructure workspace</title>  <script type="module" crossorigin src="/assets/index-BzHaUgGY.js"></script>
-  <link rel="stylesheet" crossorigin href="/assets/index-DP7uCpja.css">
+<html lang="en"><head><meta charset="UTF-8"/><meta name="viewport" content="width=device-width,initial-scale=1.0"/><meta name="color-scheme" content="dark light"/><meta name="description" content="Hclaro — your infrastructure, in focus. A local, read-only workspace for Terraform and OpenTofu."/><link rel="icon" type="image/svg+xml" href="/favicon.svg"/><title>Hclaro · Local infrastructure workspace</title>  <script type="module" crossorigin src="/assets/index-DSBjlUCl.js"></script>
+  <link rel="stylesheet" crossorigin href="/assets/index-BXq9SpUr.css">
 </head><body><div id="root"></div></body></html>

diff --git a/web/src/styles.css b/web/src/styles.css
@@ -2532,10 +2532,16 @@ kbd {
 
 /* M3: replacement selection, replace review and saved-plan apply */
 .select-column {
-  width: 34px;
   padding-right: 0 !important;
   text-align: center;
 }
+
+/* The explorer table gained a leading checkbox column, which shifts the positional
+   widths above; size its columns relative to that column instead. */
+.resources-table th.select-column { width: 40px; }
+.resources-table th.select-column + th { width: auto; }
+.resources-table th.select-column + th + th { width: 83px; }
+.resources-table th.select-column + th + th + th { width: 87px; }
 
 .select-column input {
   accent-color: var(--accent);
